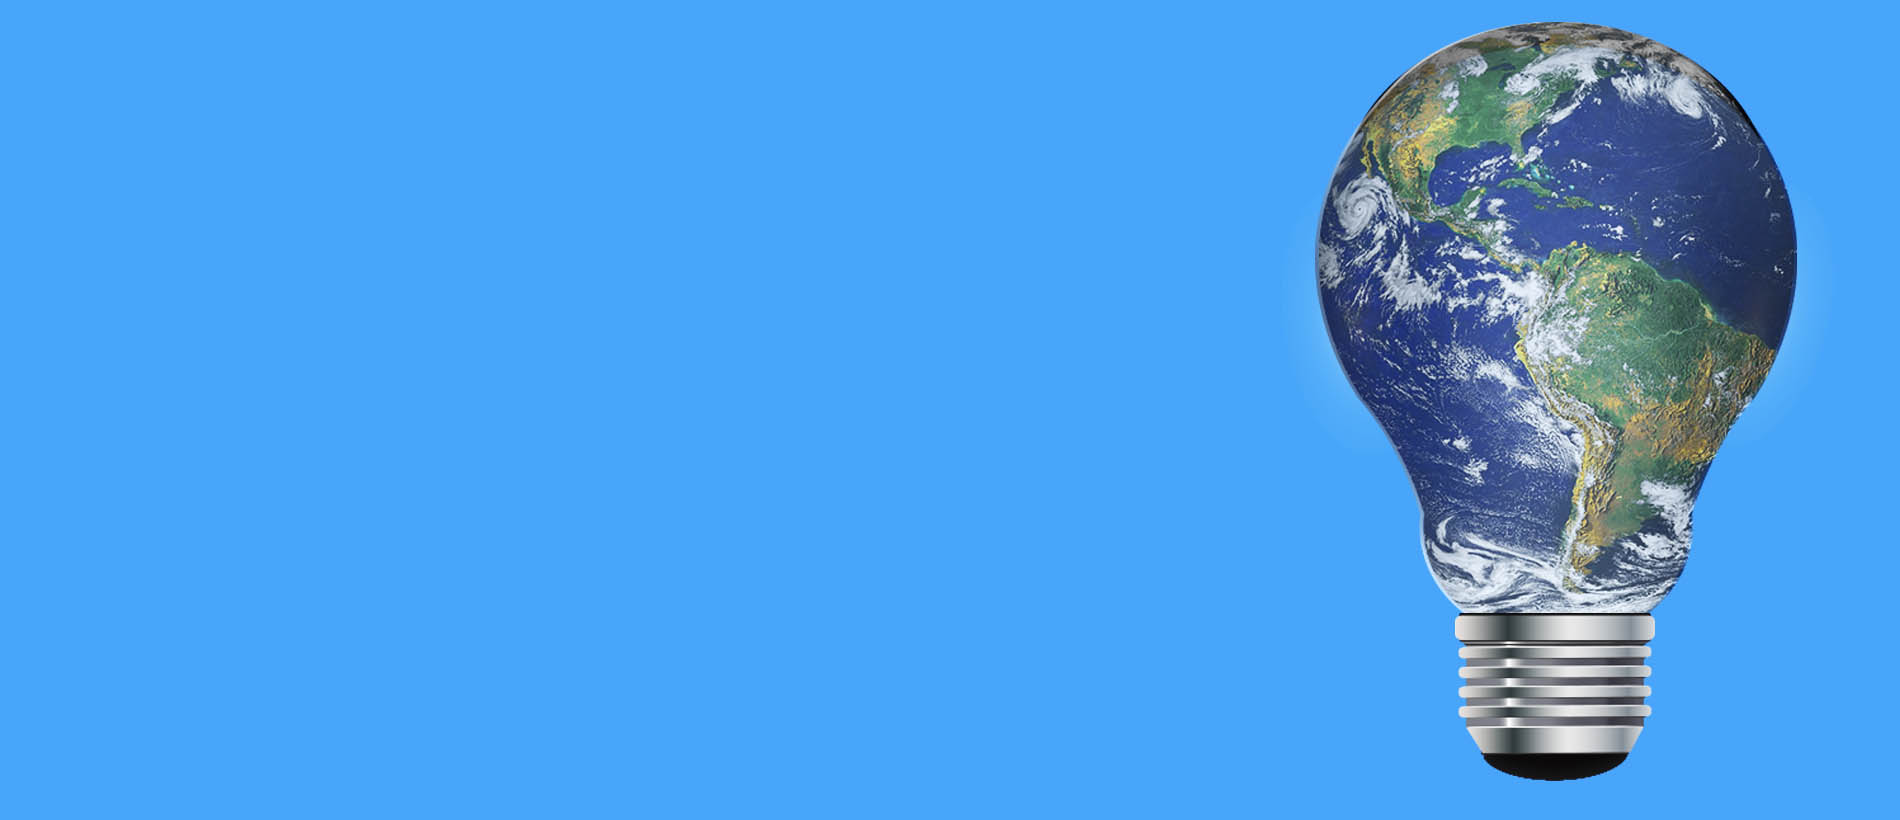
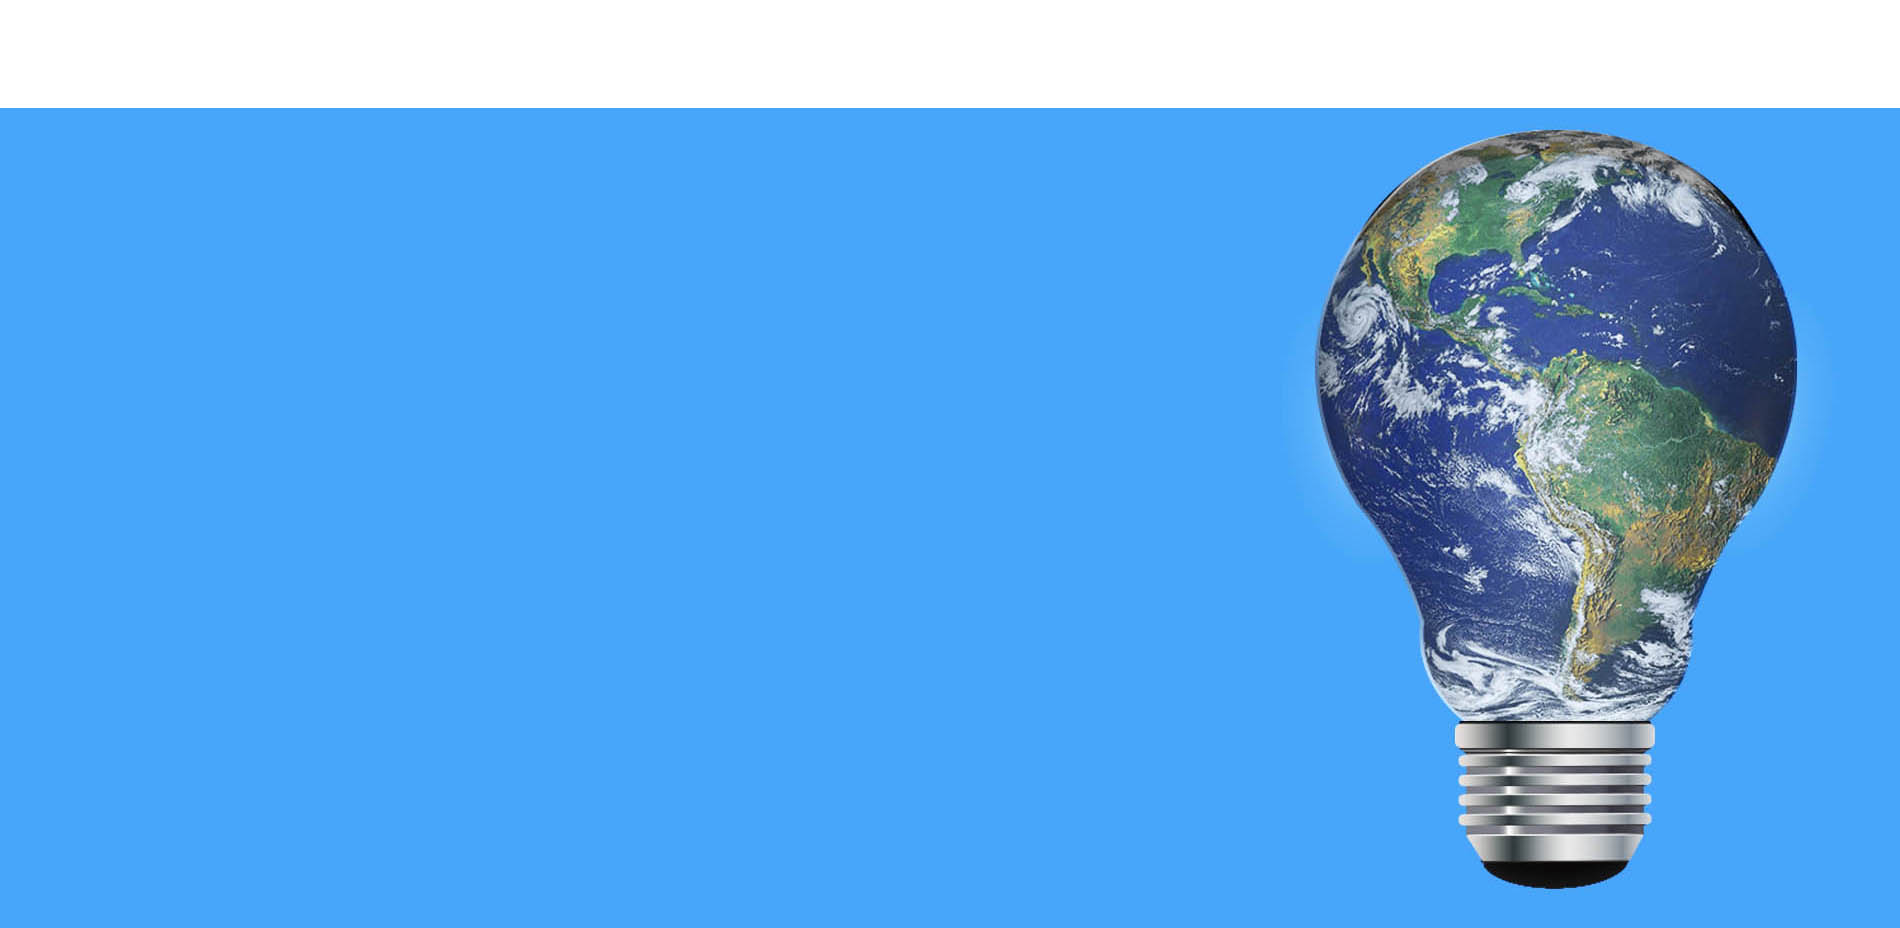
Almost fixed the header

Changed region(s): [[0.0, 0.0, 1.0, 0.9756]]

diff --git a/index.html b/index.html
@@ -29,18 +29,24 @@
     <div class="header_menu text-center" data-spy="affix" data-offset-top="-1" id="nav">
         <img id="logo" onclick="backToTop1()" src="img/logo.png" alt="">
         <div class="container">
-            <nav class="navbar navbar-default zero_mp ">
-                <nav class="navbar navbar-default zero_mp ">
-                    <div class="collapse navbar-collapse zero_mp" id="bs-example-navbar-collapse-1">
-                        <ul class="nav navbar-nav navbar-right main_menu">
-                            <li><a href="#about">About us</a></li>
-                            <li><a href="#products">Products</a></li>
-                            <li><a href="#services">Services</a></li>
-                            <li><a href="#tehnology">Technology</a></li>
-                            <li><a href="#contact">contact us</a></li>
-                        </ul>
-                    </div>
-                </nav>
+            <nav class="navbar navbar-default zero_mp">
+                <div class="navbar-header">
+                    <button type="button" class="navbar-toggle collapsed" data-toggle="collapse" data-target="#bs-example-navbar-collapse-1" aria-expanded="false">
+                        <span class="sr-only">Toggle navigation</span>
+                        <span class="icon-bar"></span>
+                        <span class="icon-bar"></span>
+                        <span class="icon-bar"></span>
+                    </button>
+                </div>
+                <div class="collapse navbar-collapse zero_mp" id="bs-example-navbar-collapse-1">
+                    <ul class="nav navbar-nav navbar-right main_menu">
+                        <li><a href="#about">About us</a></li>
+                        <li><a href="#products">Products</a></li>
+                        <li><a href="#welcome">Services</a></li>
+                        <li><a href="#tehnology">Technology</a></li>
+                        <li><a href="#contact">contact us</a></li>
+                    </ul>
+                </div>
             </nav>
         </div>
     </div>
@@ -54,7 +60,6 @@
             <li data-target="#carousel-example-generic" data-slide-to="1"></li>
             <li data-target="#carousel-example-generic" data-slide-to="2"></li>
         </ol>
-        Ł
 
         <div class="carousel-inner" role="listbox">
             <div class="item active">

diff --git a/css/style.css b/css/style.css
@@ -188,7 +188,6 @@ html, body {
 #header .header_menu {
     min-height: 80px;
     border-bottom: 1px solid #3D3E3D;
-    position: fixed;
     z-index: 9999;
 }
 
@@ -263,7 +262,6 @@ html, body {
 
 #slider {
     min-height: 450px;
-    margin-top: 55px;
 }
 
 #slider .slider_text {
@@ -657,7 +655,7 @@ li.fw-flash-message {
     width: 100%;
     z-index: 1;
     background: #fff;
-    padding-top: 0px;
+    padding-top: 0;
 }
 
 /**/
@@ -1029,7 +1027,7 @@ ul.entry-meta {
     font-family: 'Open Sans', sans-serif;
 }
 #welcome .single_item {
-    padding: 20px 0 10px 20px;
+    padding: 20px 0 10px 0;
     text-align: justify;
 }
 #welcome .welcome_icon {
